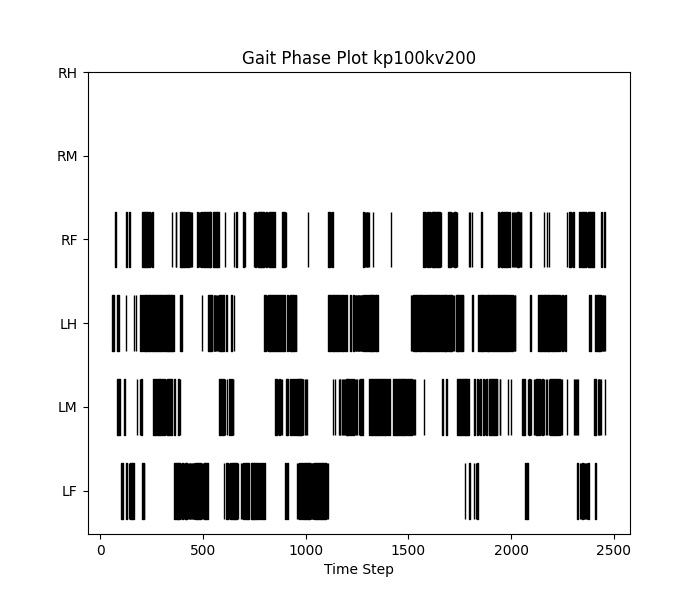
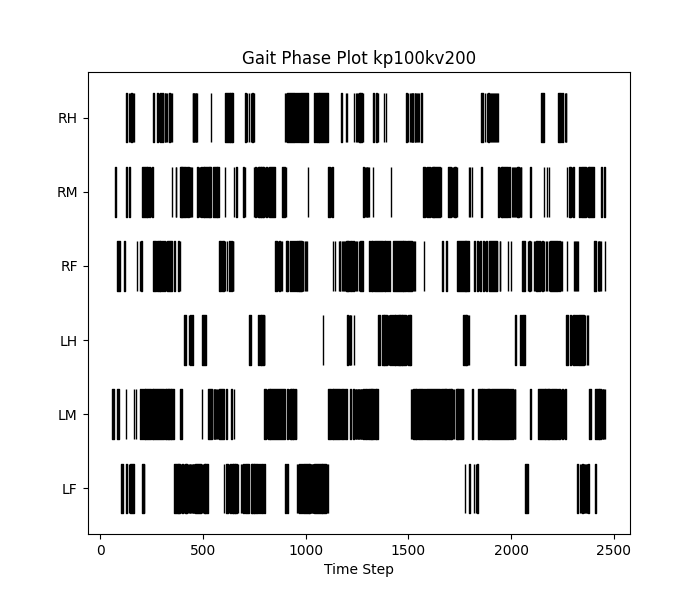
commit

diff --git a/expert_demonstration/make_expert_stickinsect_posvel.py b/expert_demonstration/make_expert_stickinsect_posvel.py
@@ -78,7 +78,7 @@ for custom in root.findall('custom'):
 data.qpos[-24:] = np.array(init_qpos_data.split()).astype(np.float64)
 
 obs_state = []
-leg_geoms = ['LF_tibia_geom', 'RF_tibia_geom', 'LM_tibia_geom', 'RM_tibia_geom', 'LB_tibia_geom', 'RB_tibia_geom']
+leg_geoms = ['LF_tibia_geom', 'LM_tibia_geom', 'LH_tibia_geom', 'RF_tibia_geom', 'RM_tibia_geom', 'RH_tibia_geom']
 leg_ids = [mujoco.mj_name2id(model, mujoco.mjtObj.mjOBJ_GEOM, name) for name in leg_geoms]
 floor_id = mujoco.mj_name2id(model, mujoco.mjtObj.mjOBJ_GEOM, 'floor')
 contact_matrix = np.zeros((2459, len(leg_geoms)), dtype=int)
